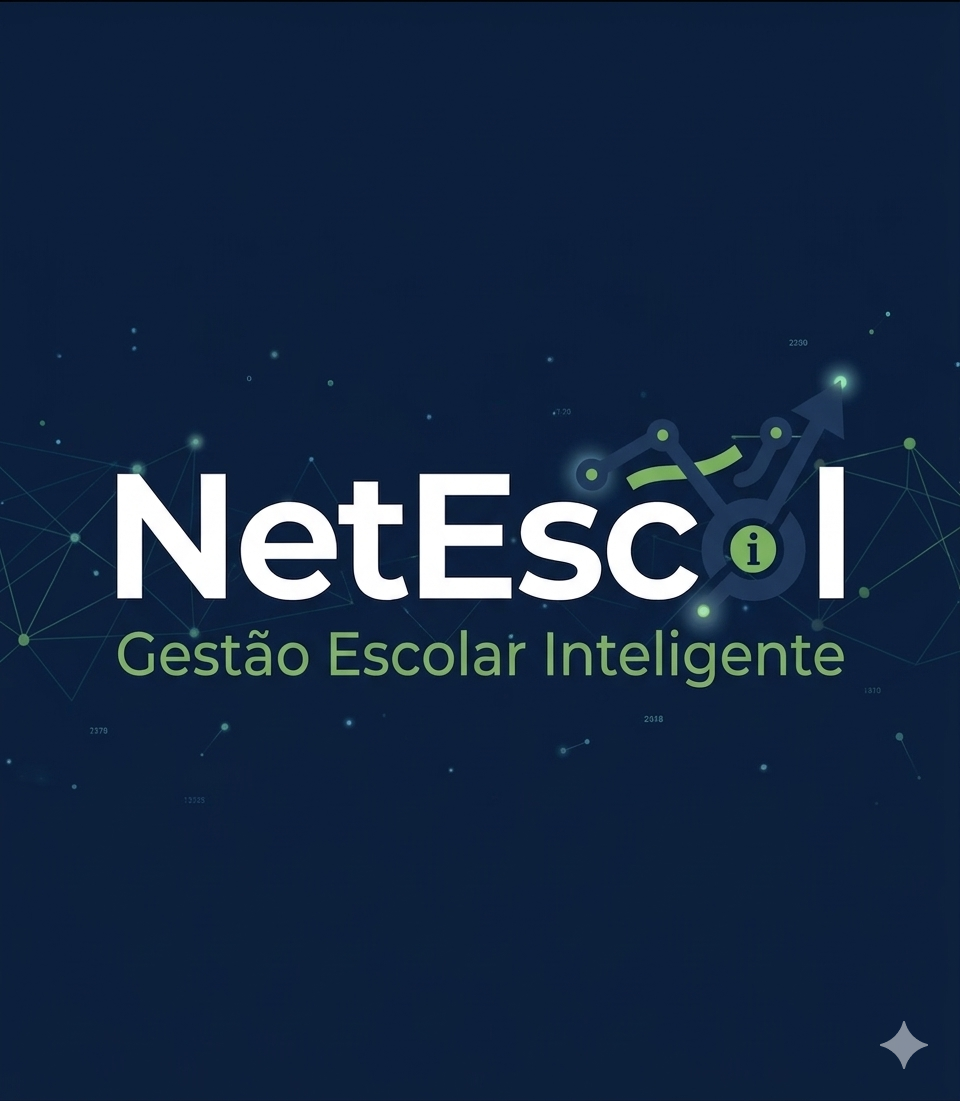
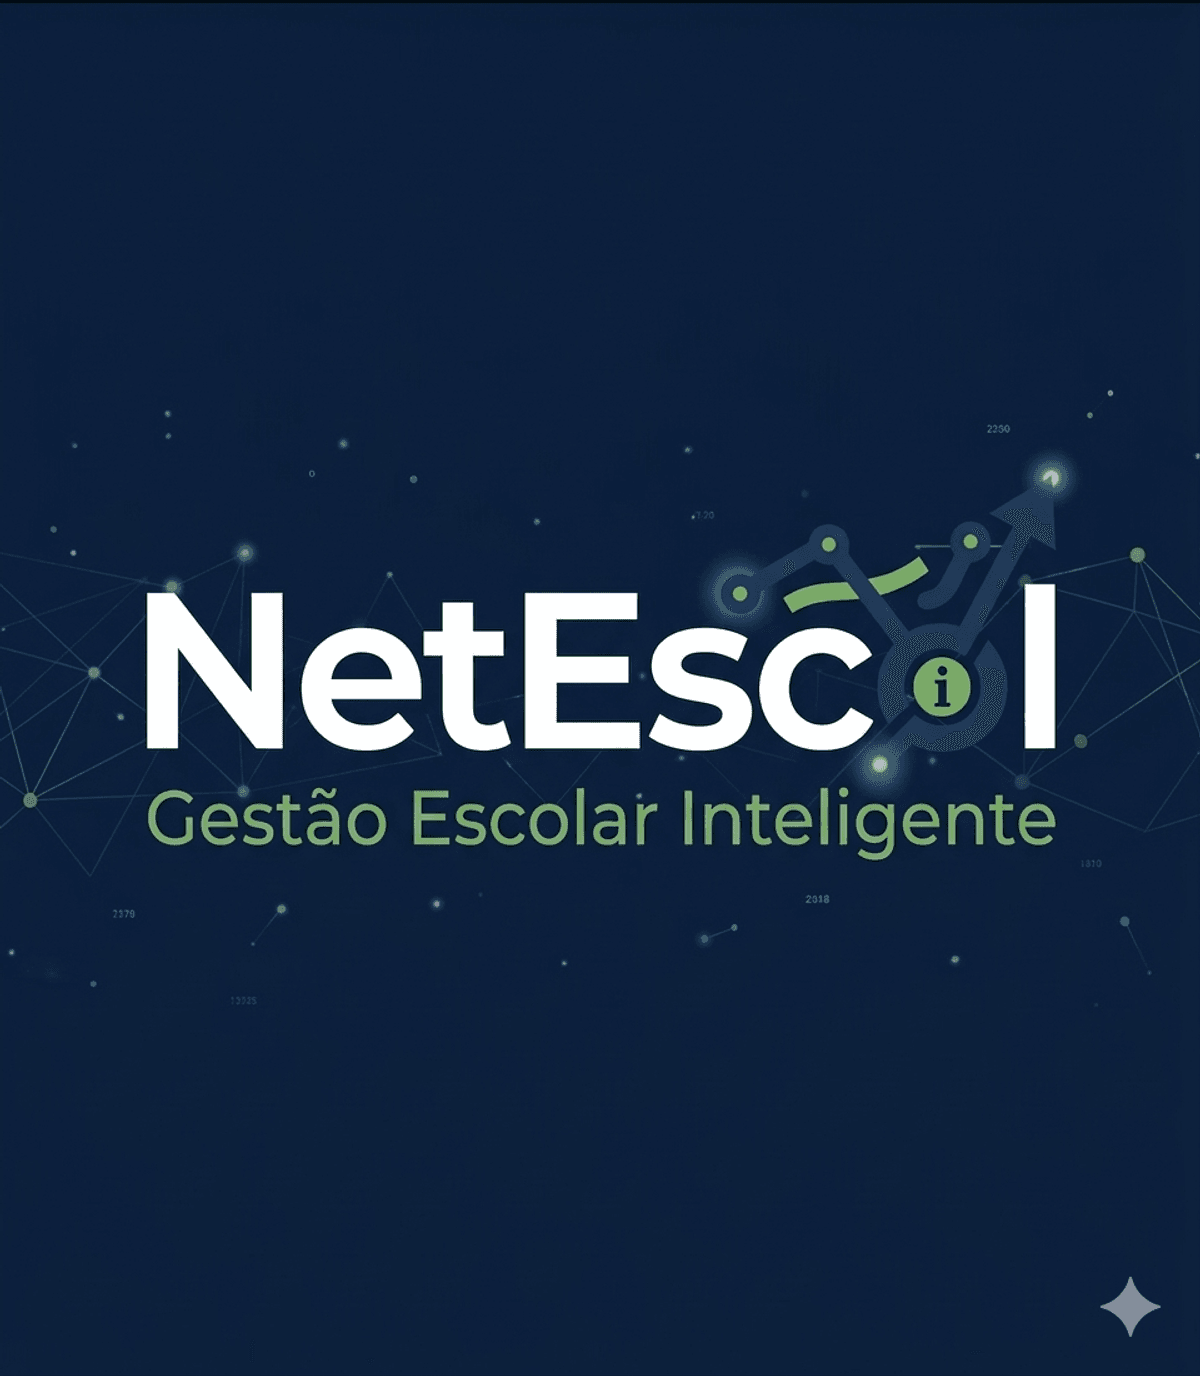
fix: otimizar imagens e corrigir mobile responsivo
- Imagens otimizadas: 4.5MB → 560KB (87% menor, carregamento rápido no 4G)
- Menu mobile corrigido: fundo escuro consistente, hamburguer visível
- Nav link ativo: usar classes CSS ao invés de inline style (visível no mobile)
- Hero mobile: remover min-height excessivo quando dashboard oculto
- HTTPS enforced ativado no GitHub Pages

diff --git a/style.css b/style.css
@@ -152,6 +152,7 @@ body {
 }
 
 .nav-links a:hover { color: #ffffff; }
+.nav-links a.nav-active { color: #ffffff; font-weight: 700; }
 
 .nav-cta {
   background: linear-gradient(135deg, var(--accent), var(--accent-dark));
@@ -1020,11 +1021,14 @@ body {
     top: 72px;
     left: 0;
     right: 0;
-    background: white;
+    background: rgba(15,23,42,0.98);
+    border-bottom: 1px solid rgba(255,255,255,0.1);
     padding: 24px;
     box-shadow: var(--shadow-lg);
     gap: 16px;
   }
+  .nav-links.active a { color: rgba(255,255,255,0.9); }
+  .nav-mobile-btn span { background: #fff; }
 
   .hero-container {
     grid-template-columns: 1fr;
@@ -1564,7 +1568,7 @@ body {
   .nav-mobile-btn span { background: #fff; }
 
   /* Hero */
-  .hero { padding: 80px 0 40px; }
+  .hero { padding: 80px 0 40px; min-height: auto; }
   .hero h1 { font-size: 28px; line-height: 1.2; }
   .hero-desc { font-size: 14px; }
   .hero-buttons { flex-direction: column; gap: 12px; }

diff --git a/script.js b/script.js
@@ -98,11 +98,9 @@ window.addEventListener('scroll', () => {
     const link = document.querySelector('.nav-links a[href="#' + id + '"]');
     if (link) {
       if (scrollPos >= top && scrollPos < top + height) {
-        link.style.color = 'var(--primary)';
-        link.style.fontWeight = '700';
+        link.classList.add('nav-active');
       } else {
-        link.style.color = '';
-        link.style.fontWeight = '';
+        link.classList.remove('nav-active');
       }
     }
   });
